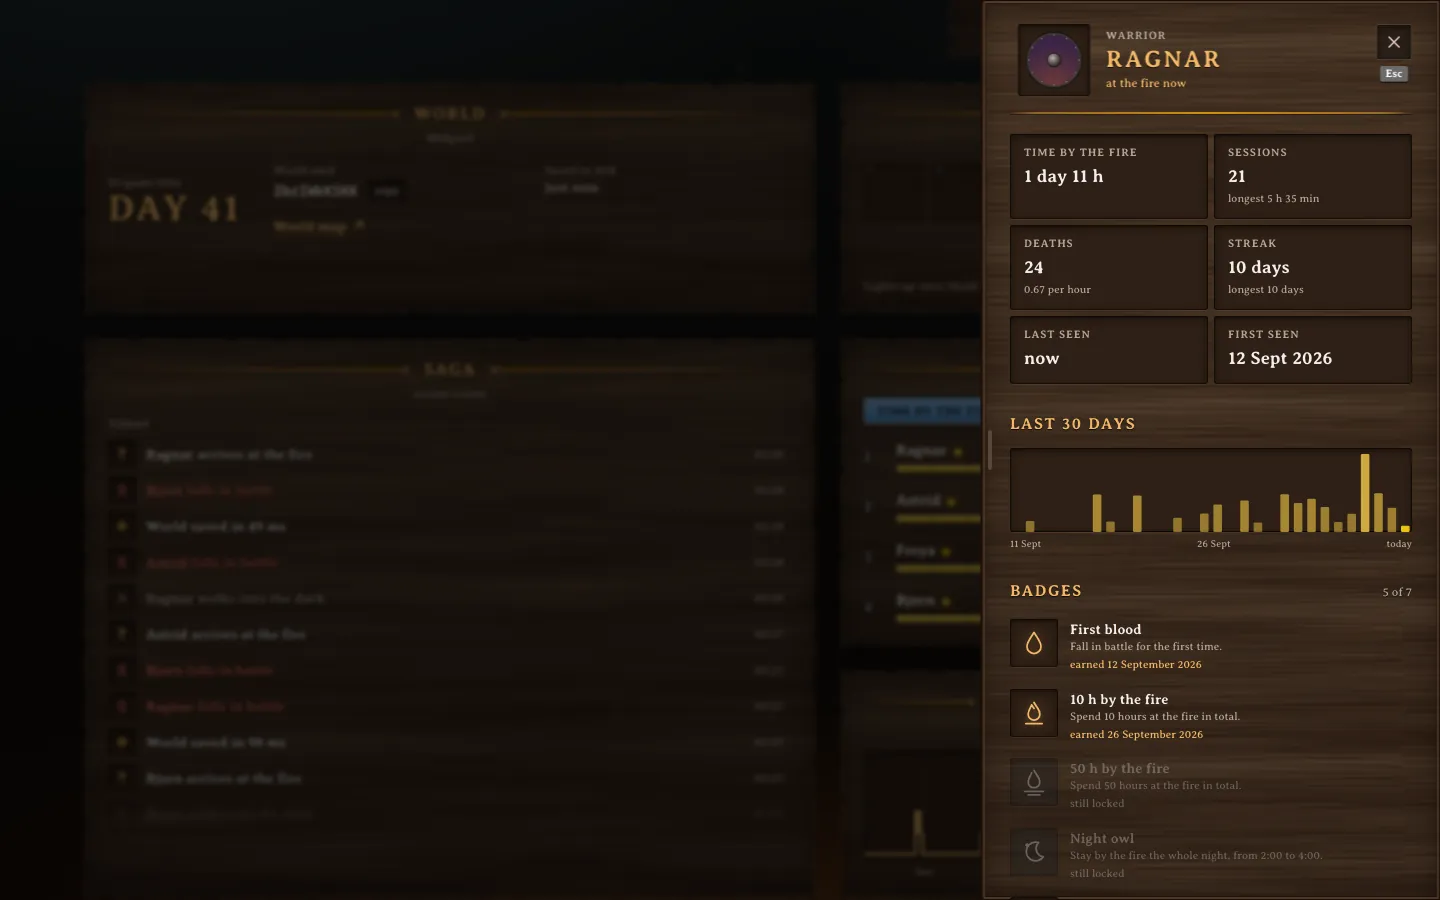
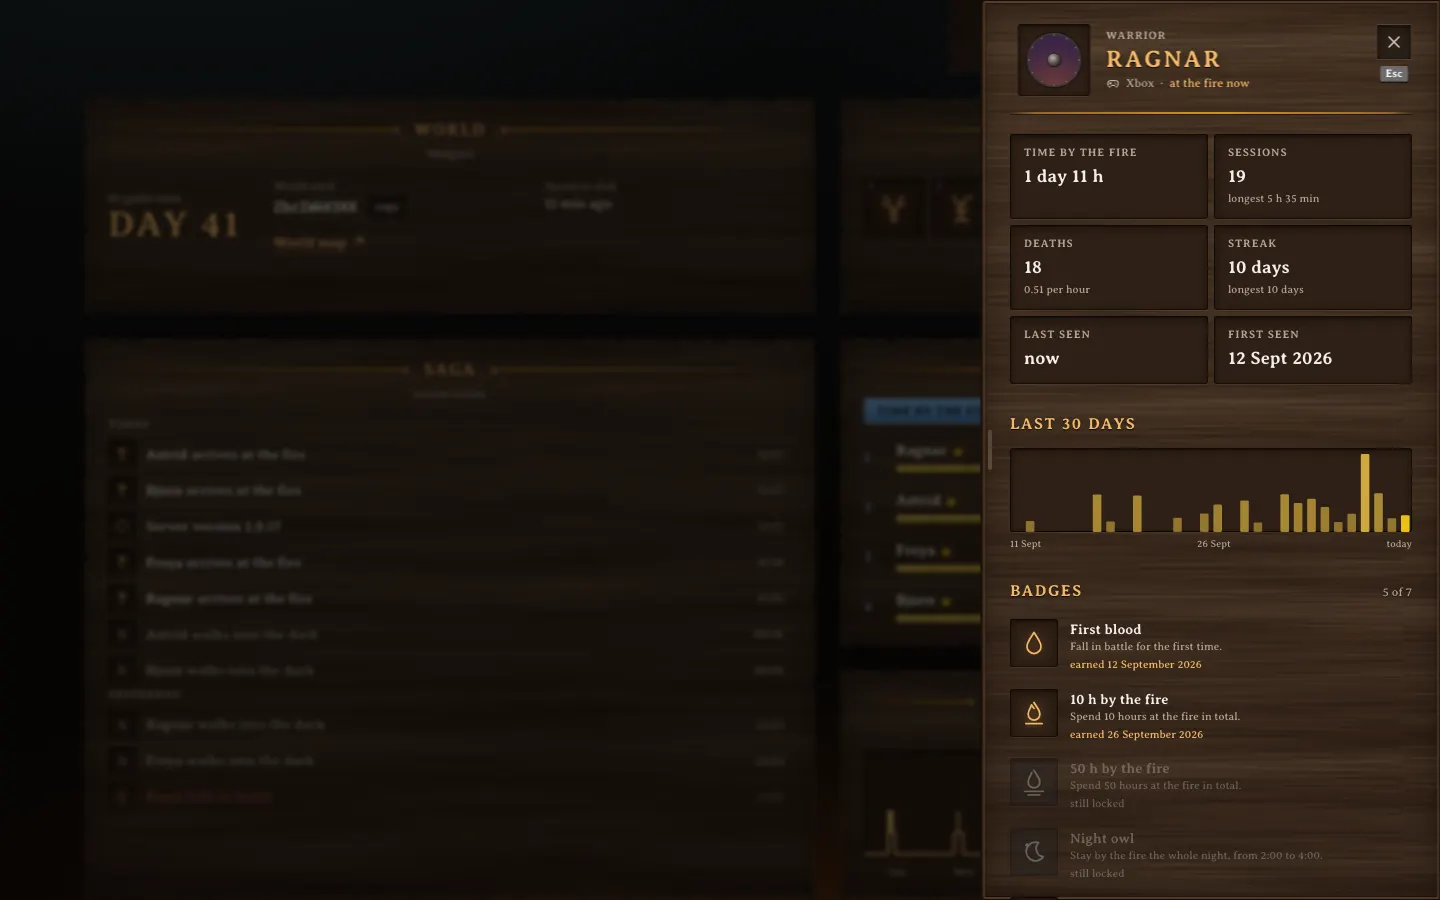
docs: screenshots with the boss path and platform marks

diff --git a/README.md b/README.md
@@ -10,7 +10,7 @@
 [![CI](https://github.com/krystianslowik/skald/actions/workflows/ci.yaml/badge.svg)](https://github.com/krystianslowik/skald/actions/workflows/ci.yaml)
 [![Release](https://img.shields.io/github/v/release/krystianslowik/skald?include_prereleases&color=ffb347)](https://github.com/krystianslowik/skald/releases)
 
-<img src="docs/images/dashboard.webp" alt="The Skald dashboard: a burning six-digit join code, four players at the fire as painted shields, the world day and the boss path" width="100%" />
+<img src="docs/images/dashboard.webp" alt="The Skald dashboard: a burning six-digit join code, four players at the fire as painted shields with platform marks, the world day and the boss path with three bosses down" width="100%" />
 
 </div>
 
@@ -35,7 +35,7 @@ optional campfire crackle if you want it.
 <table>
   <tr>
     <td width="50%"><img src="docs/images/login.webp" alt="Login screen: a dying campfire and one field" /></td>
-    <td width="50%"><img src="docs/images/profile.webp" alt="A player profile: playtime, deaths, streak, 30-day chart and badges" /></td>
+    <td width="50%"><img src="docs/images/profile.webp" alt="A player profile: platform, playtime, deaths, streak, 30-day chart and badges" /></td>
   </tr>
 </table>
 
